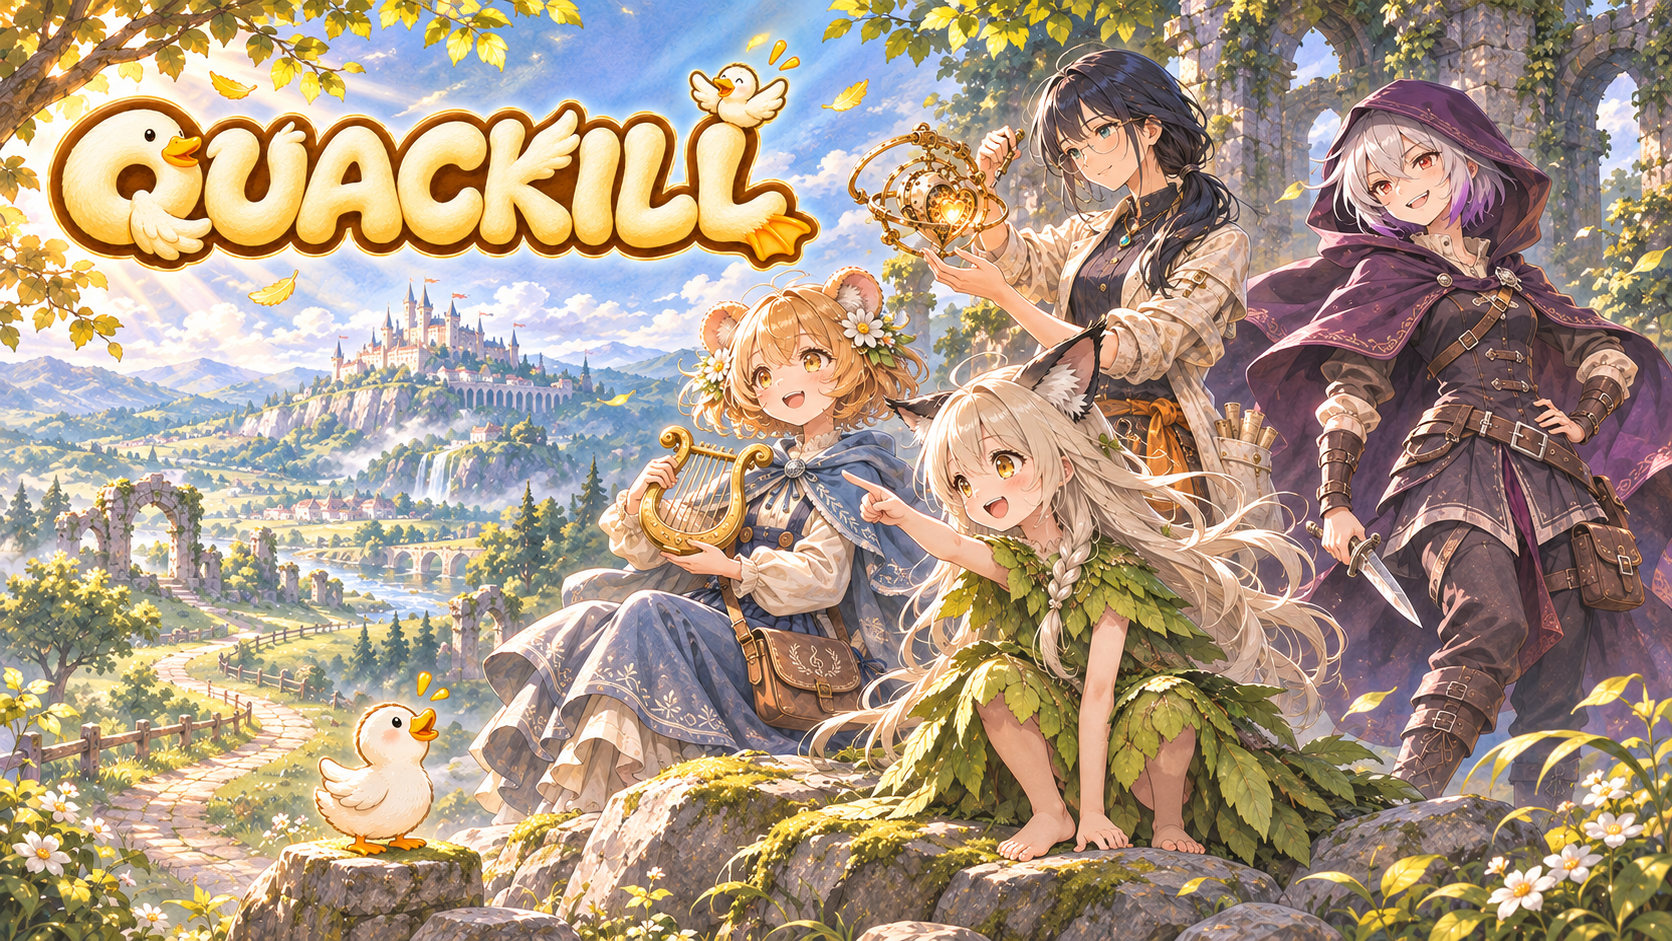
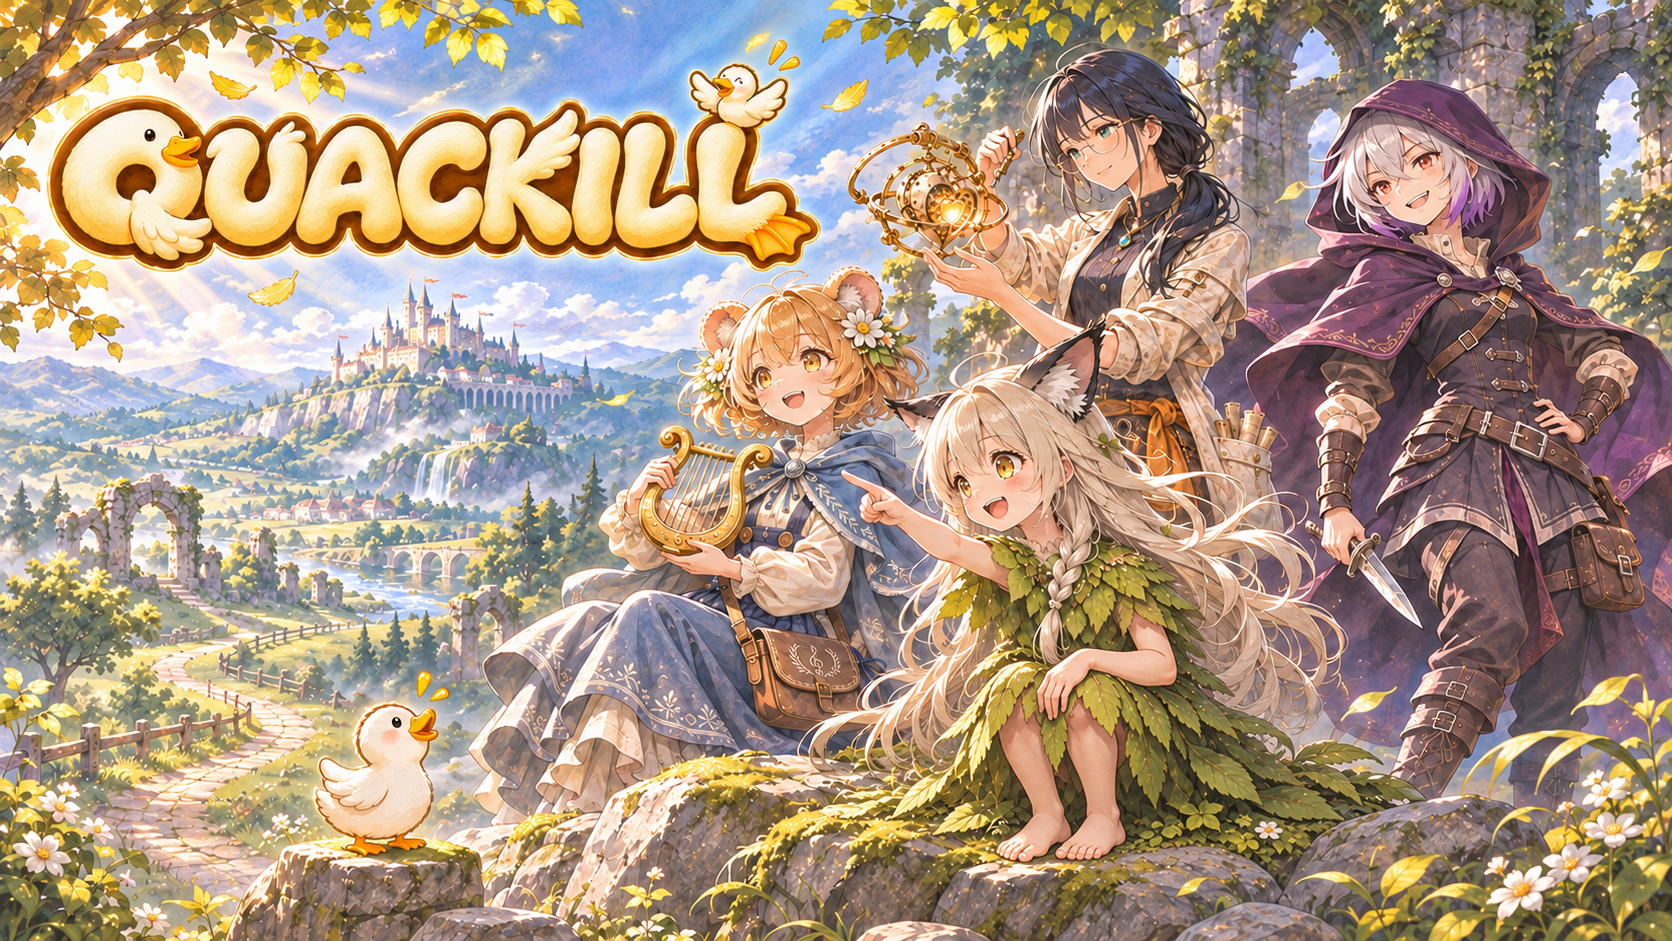
替换 Steam 主视觉为森林精魄手臂修复版

diff --git a/HANDOFF.md b/HANDOFF.md
@@ -2649,3 +2649,6 @@ art_src/2026-11-23_frames 包含六类独立卡框和提示词框架。内置ima
 
 ## 9038 老虎候选修订与人物参考
 第五批 9038 已替换为傲虎、鹿、狼与飞鸟，已目检，待装框。后续卡图需要人物时，优先参考对应角色 CG 与生成时最近 24 小时内尚未应用的新卡图人物，检索范围包括该时间窗内的远程推送。
+
+## Steam 主视觉手臂修复（2026-11-24）
+用森林精魄屈肘扶膝版替换主视觉，已验证原路径 PNG 与修复稿 SHA-256 一致。
